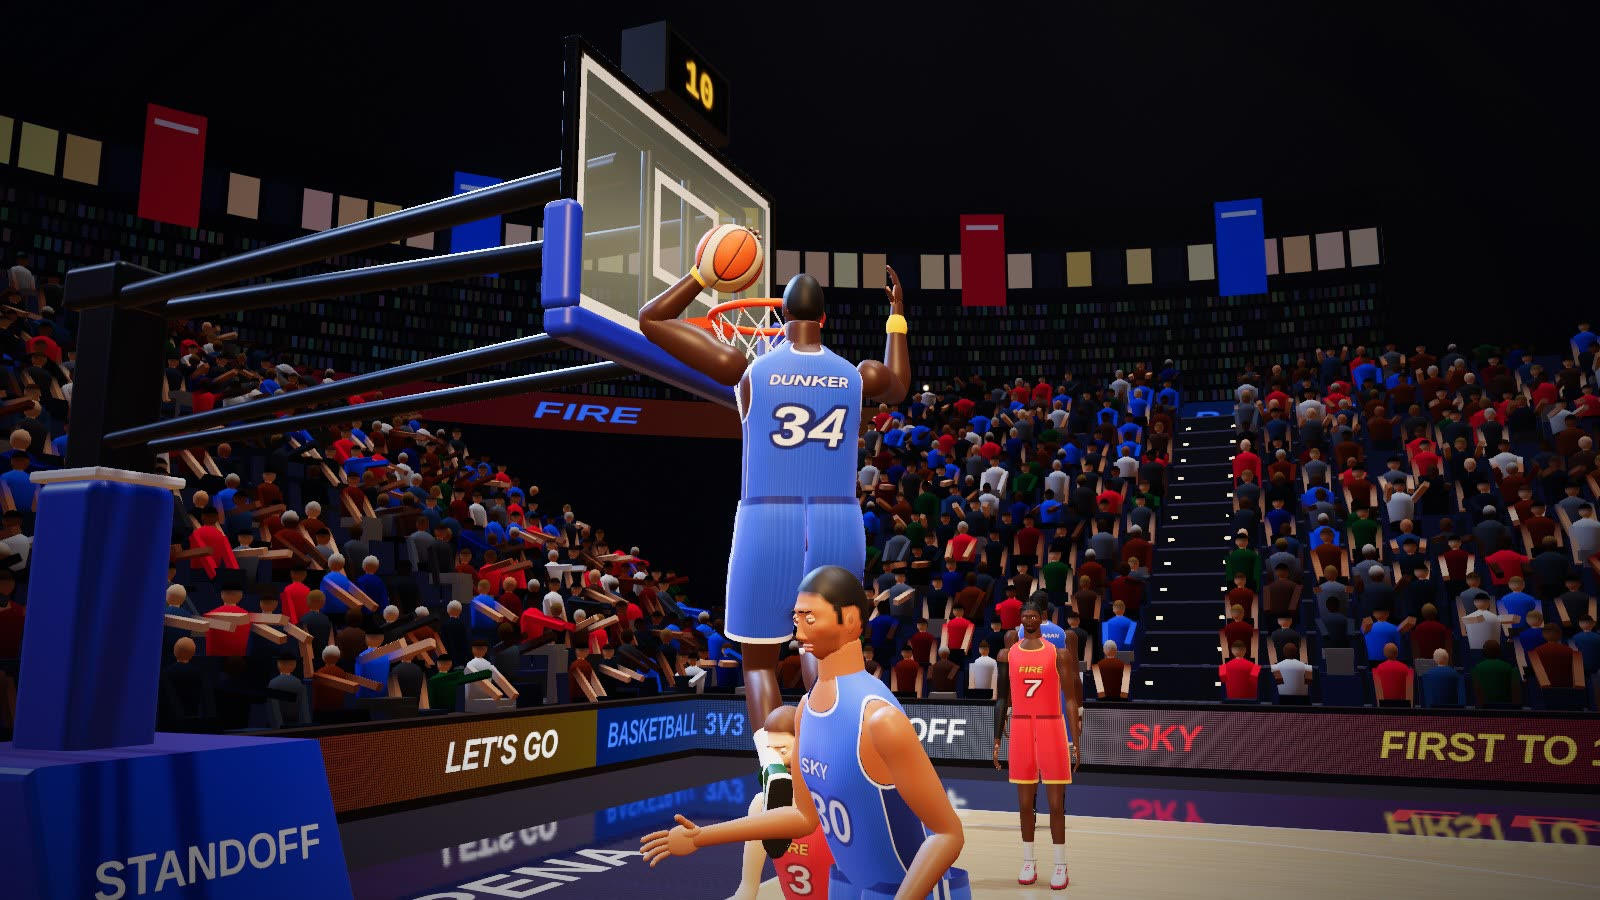
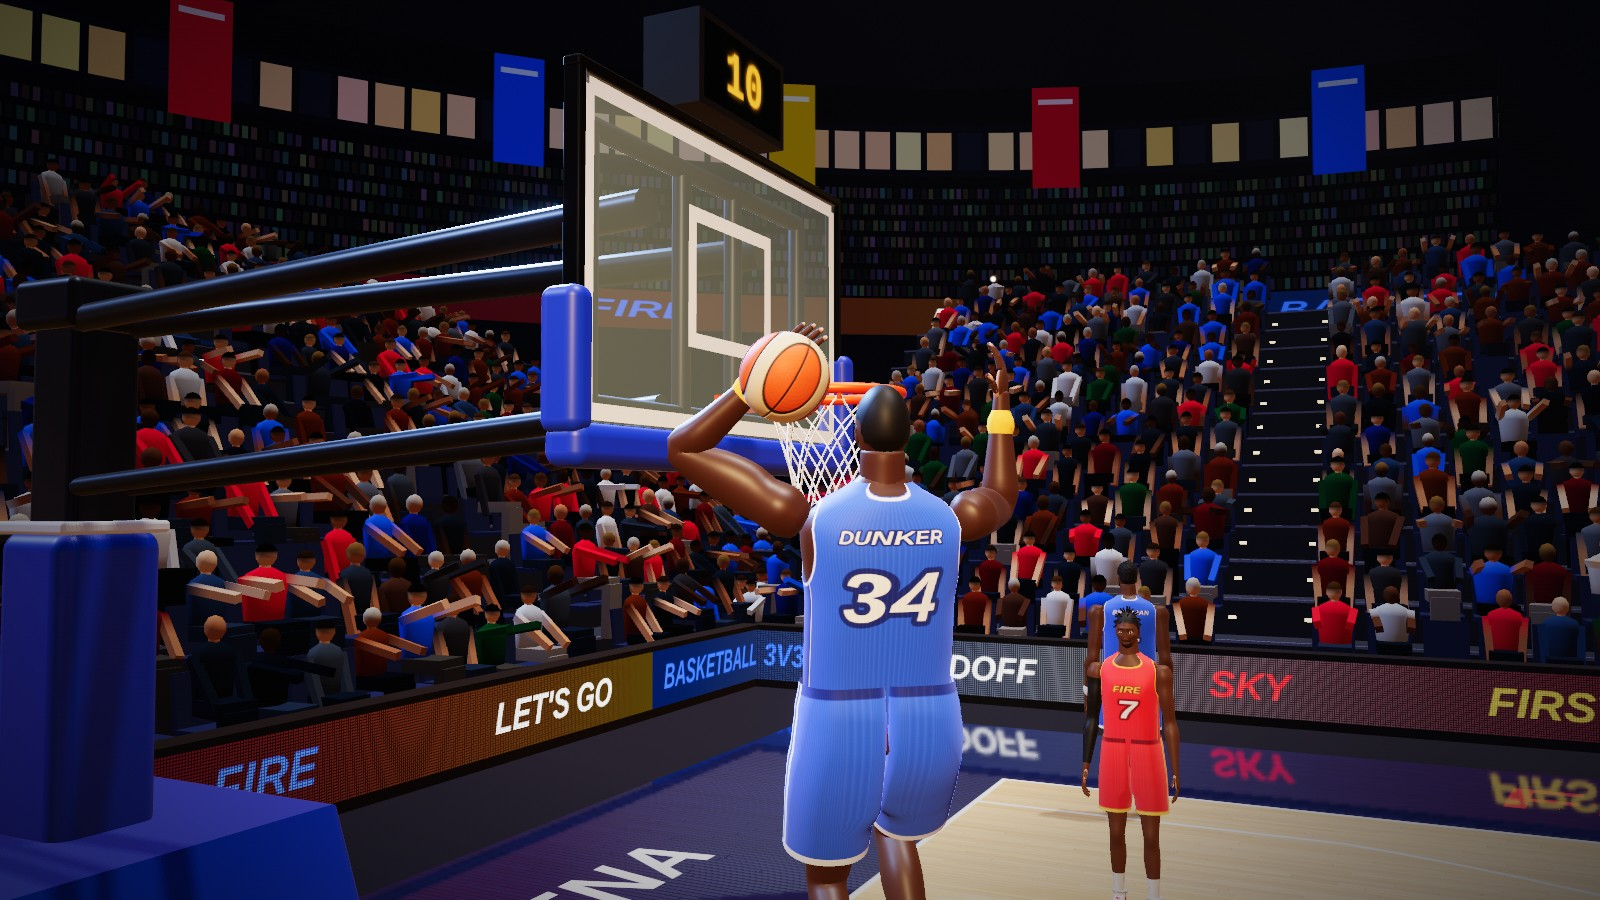
Film the Basketball 3v3 poster clear of the players on the floor
From shoulder height a teammate and the shaken defender filled the bottom of the frame. The camera now sits high over the left block just behind the Dunker, so the windmill over the ring has the frame to itself. The root README picture and the windmill still use the new frame.

Claude-Session: https://claude.ai/code/session_01D1DBDL5jLRnzHEGNERorxo

diff --git a/src/games/nba-3v3/showcase/director.ts b/src/games/nba-3v3/showcase/director.ts
@@ -32,12 +32,12 @@ const LOOP_PIXELS = 0.8;
 const STILL_DRAWS = 1;
 
 /**
- * The poster's hero angle is off the left block at shoulder height,
- * looking up at the windmill over the ring. Lower and further out, the
- * Lockdown defender walks into the shot as he gets up off the floor.
+ * The poster's hero angle is high over the left block, just behind the
+ * Dunker, looking across at the windmill over the ring. Any lower and
+ * the players getting up off the floor walk into the bottom of the shot.
  */
 const STILL_CAMERA: Partial<Record<ShowcaseView, { pos: THREE.Vector3; look: THREE.Vector3; fov: number }>> = {
-  poster: { pos: new THREE.Vector3(-4.4, 1.7, 3.6), look: new THREE.Vector3(-0.4, 2.4, 1.9), fov: 42 },
+  poster: { pos: new THREE.Vector3(-3.6, 2.7, 3.2), look: new THREE.Vector3(-0.3, 2.85, 1.6), fov: 42 },
   icon: ICON_CAMERA,
 };
 

diff --git a/src/games/nba-3v3/README.md b/src/games/nba-3v3/README.md
@@ -296,9 +296,9 @@ The icon, the poster and the looping clip are filmed from the showcase with `nod
 
 The loop is a wordless trailer, cut like a game advert (`showcase/trailer-plan.ts`). Each cut opens a fresh copy of its film, runs it on to the cut without drawing, then films it through its own low, close camera (`trailer-cams.ts`), with speed ramps into slow motion on the big moments. It opens on the Dunker's crossover on the Lockdown defender, who goes down in slow motion with his ankles broken. Then the windmill from under the glass and again from the side as it comes down. Then a chase down block from the lab (`block-chase`): the Lockdown defender running on a driver's hip, and the swat over the top filmed from under the glass. Then the Playmaker's iso at the top of the key, his crossover and stepback, a gold three from over his shoulder, and the gold trail dropping through the net. The cuts are timed from the films stepped exactly as the trailer steps them. It ends on the Dunker lifting the trophy and a crane pulling back through the confetti. The trailer opens on the last second of that crane shot too, so the capture's cross fade from the end back to the start blends a shot into itself and the loop has no seam. The film look (`CourtRenderer.cinematic`) takes down the fill light, doubles the rim light, sinks the stands in haze and hides the LED ribbons, whose words would read as captions.
 
-The poster is one frame of the windmill at its height, from off the left block at shoulder height, with the ball cocked over the Dunker's head above the ring. Two spotlights light it like key art, warm from the side and cold from behind the glass. The stills keep the LED ribbons and the scoreboard lit and thin the haze, so the arena shows behind the players.
+The poster is one frame of the windmill at its height, from high over the left block just behind the Dunker, with the ball cocked over his head above the ring and nobody else in the way. Two spotlights light it like key art, warm from the side and cold from behind the glass. The stills keep the LED ribbons and the scoreboard lit and thin the haze, so the arena shows behind the players.
 
-The icon is made like a game cover, with its own short film (`showcase/icon-film.ts`). The Shooter rises into a jumper at the left elbow and the Lockdown defender closes out and leaps at it with both arms up. The block is set to fall short, so the film never rests on a roll of the dice. The camera sits on the floor off the Shooter's front, looking up past the two of them into the ring of arena lights, and holds as the ball rolls off his fingers. A warm spot from the camera's side lights both faces and two cold spots from behind cut a rim along their shoulders (`iconLights`). The logo sits over a dark foot. Every name on screen is a build's.
+The icon is made like a game cover, with its own short film (`showcase/icon-film.ts`). The Shooter rises into a jumper at the left elbow and the Lockdown defender closes out and leaps at it with both arms up. The block is set to fall short, so the film never rests on a roll of the dice. The camera sits on the floor off the Shooter's front, looking up past the two of them into the ring of arena lights, and holds just after the ball leaves his fingers, his wrist snapped through and the ball over the defender's reach. A warm spot from the camera's side lights both faces and two cold spots from behind cut a rim along their shoulders (`iconLights`). The logo sits over a dark foot. Every name on screen is a build's.
 
 The capture tool pauses the page's clock and steps it one filmed frame at a time, so even a computer that renders in software films every frame. Do not edit the game while a capture runs: the dev server's hot reload restarts the showcase mid clip. Check each clip for held frames with ffmpeg's `mpdecimate`.
 

diff --git a/docs/handoff/nba-3v3-anim.md b/docs/handoff/nba-3v3-anim.md
@@ -88,7 +88,7 @@ Done:
 * Odds: over 36 bot games (12 each at 1v1, 2v2 and 3v3) threes went in 54 to 59 percent and twos about 30. `SHOT.goodThree` (0.72) cuts a good, not green, release from beyond the arc; threes now land near 40 percent. `JUKE.hard` went from 0.45 to 0.25, so broken ankles drop from about a third of shakes to about one in seven. Free throws sit at 74 to 83 percent, layups 55 to 60, about one block a game. Games take 140 to 190 seconds.
 * `body.test.ts` now caps a jump at `MAX_DUNK_PEAK`, the dunk plan's own limit, since a small guard with space may get up to 1.3 m.
 * Icon: `showcase/icon-film.ts` is a new film. The Shooter rises at the left elbow, the Lockdown defender closes out and leaps (the block forced to fall short), held as the ball rolls off the fingers, from the floor looking up into the ring of arena lights. Tests in `icon-film.test.ts`.
-* Highlight film (`script.ts`): the crossover now forces a hard shake, so the Lockdown defender breaks his ankles; the Playmaker's iso three is a gold swish. Poster moved to off the left block (`director.ts`), since the shaken defender now walks through the old spot.
+* Highlight film (`script.ts`): the crossover now forces a hard shake, so the Lockdown defender breaks his ankles; the Playmaker's iso three is a gold swish. Poster moved high over the left block just behind the Dunker (`director.ts`), since the players getting up off the floor walked through the lower spots.
 * Trailer (`trailer-plan.ts`, `trailer-cams.ts`, `trailer.ts`): new `chase` film kind (the `block-chase` lab scene) with `chase` and `swat` cameras; all cuts retimed; about 13.9 s, captured with `--seconds 12.93`. Every frame moves (388 of 388 kept by mpdecimate). WebM 3.6 MB at crf 46, MP4 3.9 MB at crf 38.
 * Media: `media/icon.jpg`, `media/poster.jpg`, `public/games/nba-3v3/backdrop.webm|mp4`, `docs/screenshots/nba-3v3.jpg` (the poster), and three README pictures in `media/readme/`.
 * Play tested with the Keyboard player and a Playwright phone in 1v1, 2v2 and 3v3 (lobby size picker, live play, CPU free throws). Admin Free throws to the phone, Shoot held for about a second by touch: the shot only went up on the release. Phone fit passes.
